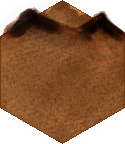
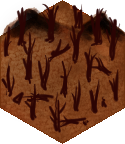
20261108_3

diff --git a/src/UIscene.js b/src/UIscene.js
@@ -8,7 +8,7 @@ export default class UIScene extends Phaser.Scene {
     constructor() {
         super({ key: 'UIScene' });
     }
-
+    
     create() {
         const gameScene = this.scene.get('GameScene');
 
@@ -229,15 +229,19 @@ export default class UIScene extends Phaser.Scene {
             
             this.scene.start('MainMenuScene');
         });
-
+        const seedNameText = this.add.text(0, 90, `Seed: ${this.seedName}` , {
+            fontSize: '16px',
+            fill: '#ffffff'
+        }).setOrigin(0.5);
         // 컨테이너에 요소 추가
-        this.pauseMenuContainer.add([overlay, menuBg, titleText, resumeBtn, mainBtn]);
+        this.pauseMenuContainer.add([overlay, menuBg, titleText, resumeBtn, mainBtn,seedNameText]);
     }
+
     makeButton(x,y, width,height, text, options={}){
         const container = this.add.container(x,y).setInteractive({ 
             hitArea: new Phaser.Geom.Rectangle(-width/2, -height/2,width, height), 
             hitAreaCallback: Phaser.Geom.Rectangle.Contains,
-            useHandCursor: true // 컨테이너에 직접 커서 설정!
+            useHandCursor: true // 컨테이너에 직접 커서 설정
         });;
          const fontStyle ={
             fontFamily:'Arial',

diff --git a/src/metaMap.js b/src/metaMap.js
@@ -25,18 +25,10 @@ export default class metaMap extends Phaser.Scene {
         this.input.addPointer(2); //멀티터치 활성화
         this.zoomRatio = GameOptions.config.zoomRatio;
          const uiScene = this.scene.get('UIScene');
-        this.mapGrid = [
-            [0, 3, 3, 1, 3, 4, 3, 3],
-            [0, 3, 1, 3, 4, 3, 3, 3],
-            [3, 3, 1, 3, 3, 3, 3, 4],
-            [3, 3, 1, 1, 1, 3, 4, 2],
-            [3, 3, 3, 1, 1, 3, 2, 2],
-            [0, 3, 3, 3, 3, 3, 2, 0],
-            [0, 2, 2, 2, 3, 0, 2, 0]
-        ];
-        const seedName = 'my_explore_world'+ Math.floor(Math.random()*100000)
+        const seedName = 'world'+ Math.floor(Math.random()*100000000)
        this.mapGrid = generateRectangularNoiseMap(12,10, seedName);
         console.log(`Random Seed: ${seedName}`);
+        uiScene.seedName = seedName;
 
         this.mapDatas = [];
         for(let r = 0; r < this.mapGrid.length; r++) {

diff --git a/index.html b/index.html
@@ -11,7 +11,7 @@
         <title>Project RTS</title>
         <script>
             // 💡 여기에 마지막으로 저장(업데이트)한 시간을 전역 변수로 기록합니다.
-            window.GAME_VERSION = "261107 23:09:00"; // 예시: "2024-06-01 12:00:00"
+            window.GAME_VERSION = "261108 04:39:00"; // 예시: "2024-06-01 12:00:00"
         </script>
         <!-- Phaser 3 라이브러리 로드 -->
         <script src="https://cdn.jsdelivr.net/npm/phaser@3.60.0/dist/phaser.min.js"></script>
@@ -21,6 +21,7 @@
         </style>
     </head>
     <body>
+        
         <script type="module" src="src/main.js"></script>
     </body>
 </html>
